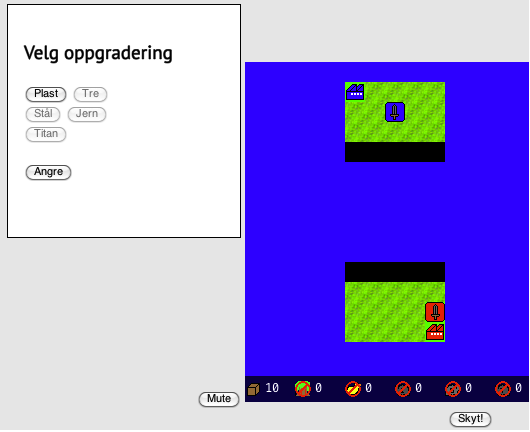
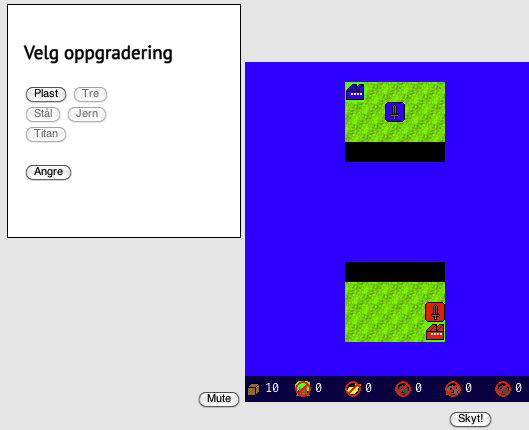
borders på alle figurer

diff --git a/konseptdokument/artwork.tex b/konseptdokument/artwork.tex
@@ -24,42 +24,53 @@ spilleren, og man ser effekten av dette i eksplosjonen.
 
 \begin{figure} [H]
 \centering
-\includegraphics[width=\textwidth]{images/Oppgradering.png}
+\setlength\fboxsep{0.2pt}
+\setlength\fboxrule{0.7pt}
+\fbox{\includegraphics[width=\textwidth]{images/Oppgradering.png}}
 \caption{Miljøstasjonen kan oppgraderes til å håndtere ulike typer avfallsgjenvinning.}
 \label{fig:Oppgradering}
 \end{figure}
 
 \begin{figure}
-\centering
-\includegraphics[scale=0.5]{images/Eksplosjon.png}
+\centering\setlength\fboxsep{0.2pt}
+\setlength\fboxrule{0.7pt}
+\fbox{\includegraphics[scale=0.5]{images/Eksplosjon.png}}
 \caption{Ved et angrep på en annen spiller vil et projektil avfyres og eksplodere på motspillerens eventuelle forsvarsstruktur.}
 \label{fig:Eksplosjon}
 \end{figure}
 
 \begin{figure}
 \centering
-\includegraphics[scale=0.5]{images/OppgradereMur.png}
+\setlength\fboxsep{0.2pt}
+\setlength\fboxrule{0.7pt}
+\fbox{\includegraphics[width=\textwidth]{images/OppgradereMur.png}}
 \caption{Spillerens forsvarsstruktur kan oppgraderes til å håndtere sterkere skyts fra motspilleren, avhengig av tilgjengelige ressurser.}
 \label{fig:OppgradereMur}
 \end{figure}
 
 \begin{figure}
 \centering
-\includegraphics[scale=0.5]{images/Tsunami.png}
+\setlength\fboxsep{0.2pt}
+\setlength\fboxrule{0.7pt}
+\fbox{\includegraphics[scale=0.5]{images/Tsunami.png}}
 \caption{Globale geohasarder kan oppstå som følge av mye global forsøpling, som for eksempel en tsunami.}
 \label{fig:Tsunami}
 \end{figure}
 
 \begin{figure} 
 \centering
-\includegraphics[scale=0.7]{images/Kolera.png}
+\setlength\fboxsep{0.2pt}
+\setlength\fboxrule{0.7pt}
+\fbox{\includegraphics[scale=0.7]{images/Kolera.png}}
 \caption{Lokale biohasarder kan oppstå som følge av mye lokal forurensning. Her er et sykdomsutbrudd.}
 \label{fig:Kolera}
 \end{figure}
 
 \begin{figure} [H]
 \centering
-\includegraphics{images/OppgradereEnv.png}
+\setlength\fboxsep{0.2pt}
+\setlength\fboxrule{0.7pt}
+\fbox{\includegraphics{images/OppgradereEnv.png}}
 \caption{Miljøstasjonens effektivitet kan oppgraderes slik at den gjenvinner mer materialer fra hver avfallsenhet.}
 \label{fig:OppgradereEnv}
 \end{figure}

diff --git a/konseptdokument/tech.tex b/konseptdokument/tech.tex
@@ -12,7 +12,9 @@ denne prototypen. Et mål var å ha noe som fungerte, men samtidig
 realisere den med minimal bruk av tid.
 \begin{figure} [H]
 	\begin{center}
-	\includegraphics[scale=0.5]{images/screenshot_tidlig_prototype.png}
+	\setlength\fboxsep{0.2pt}
+	\setlength\fboxrule{0.7pt}
+	\fbox{\includegraphics[scale=0.5]{images/screenshot_tidlig_prototype.png}}
 	\end{center}
 	\caption{Skjermskudd av vår tidlige prototype}
 	\label{fig:screenshot_tidlig_prototype}
